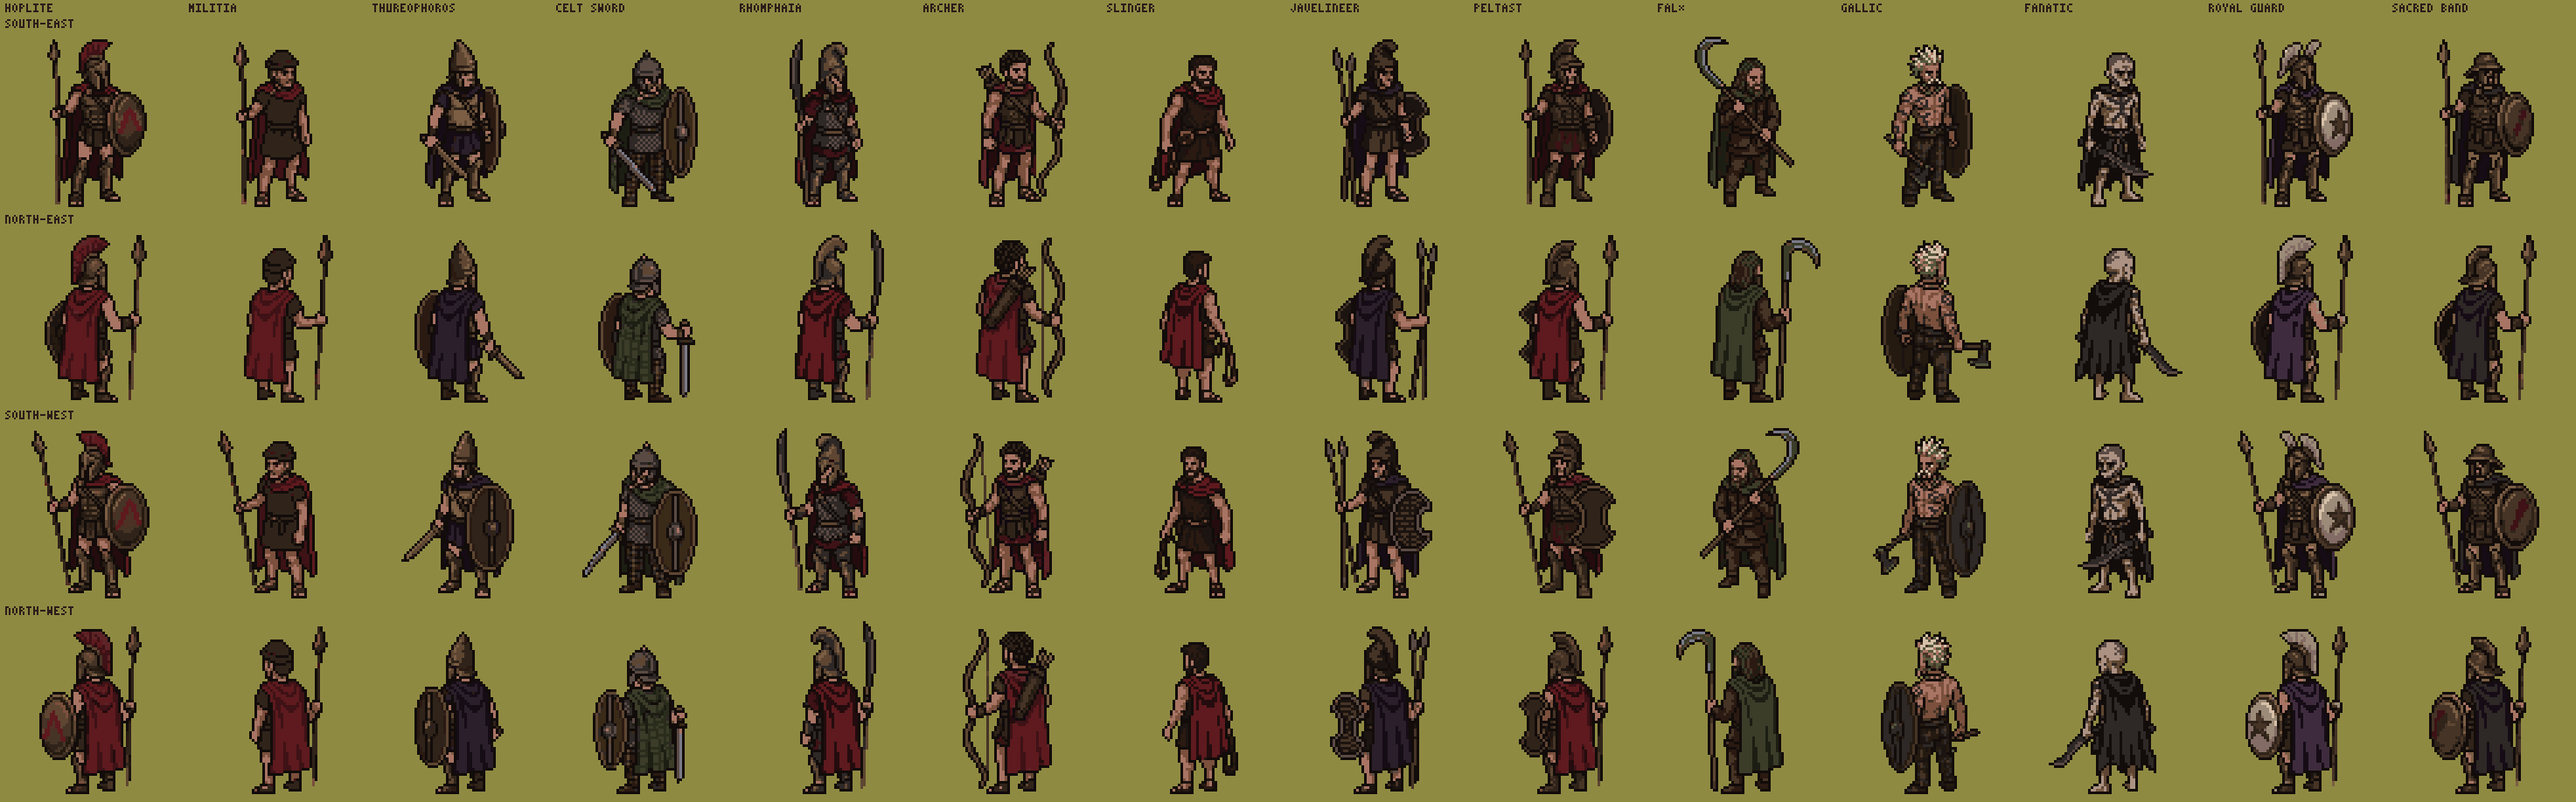
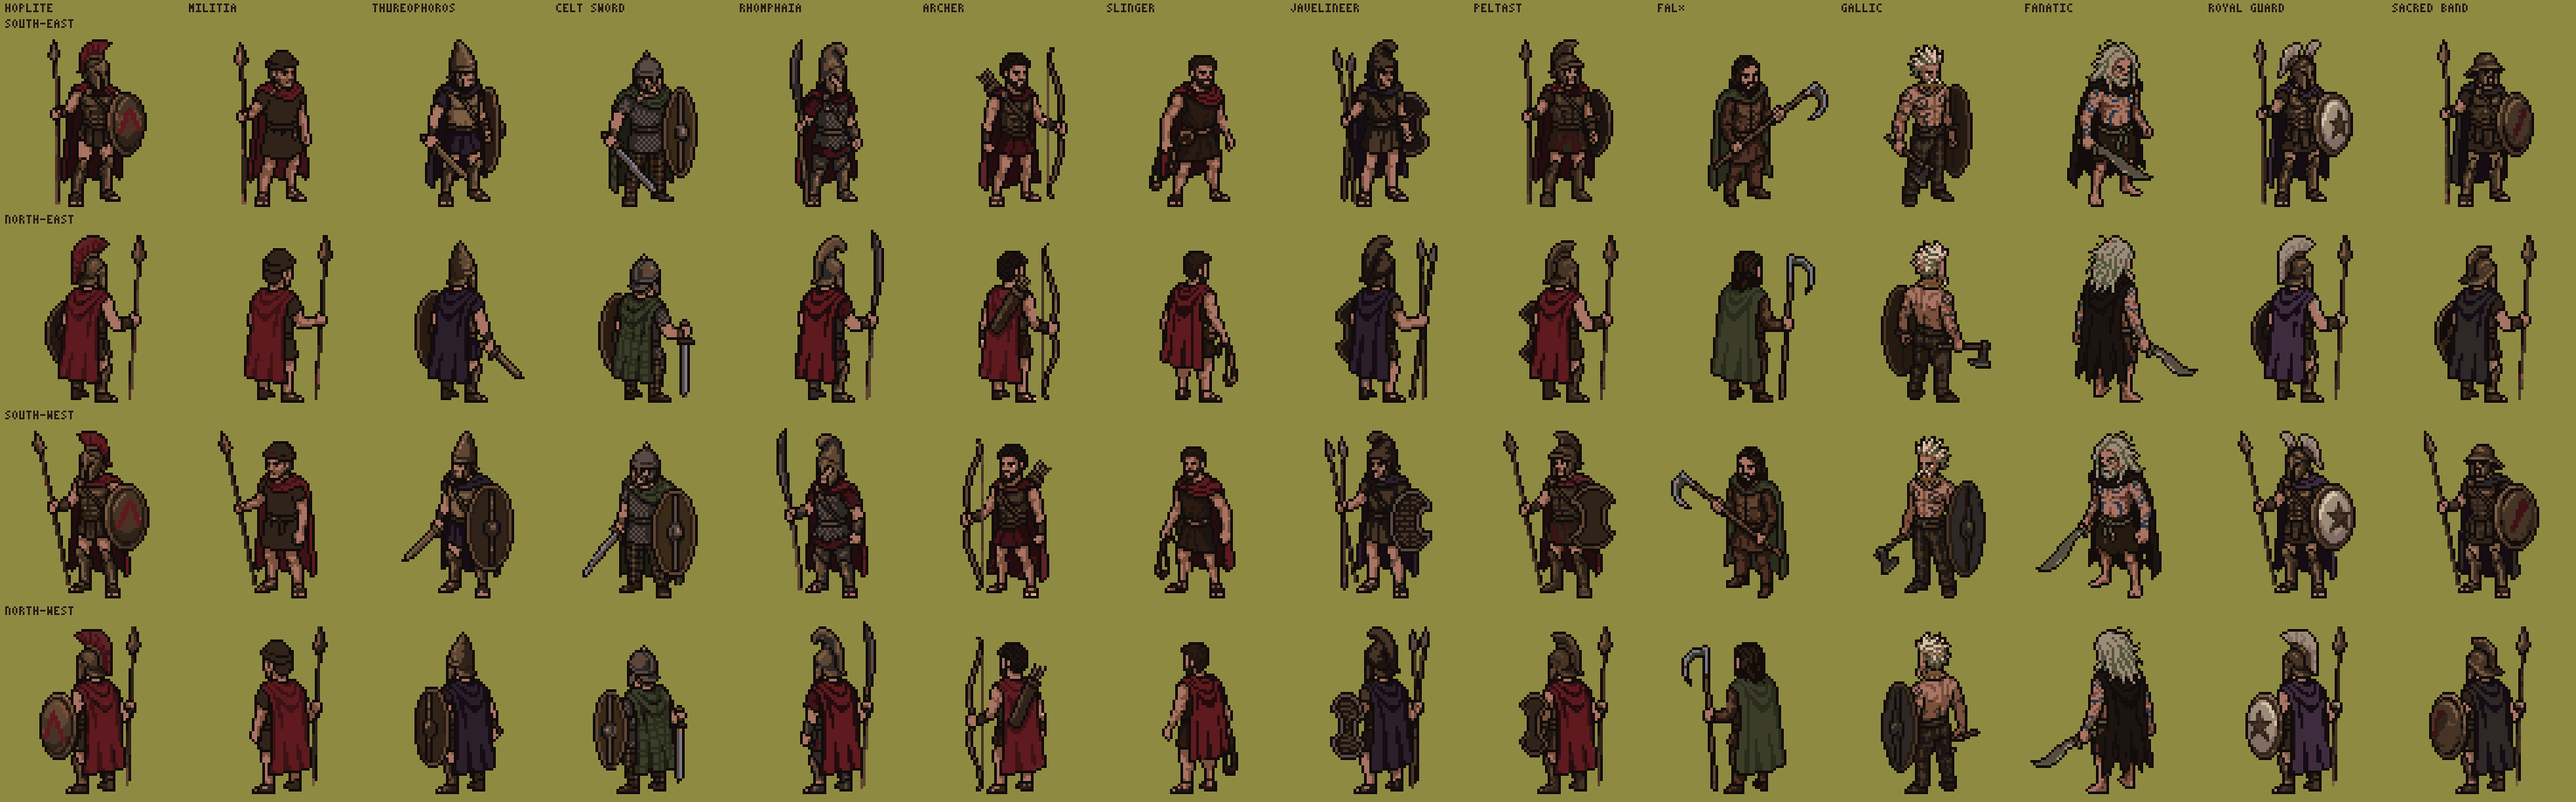
fix(art): I4a review fixes: one bow for the archer, a living Celtic fanatic, exclusive cloak and trim groups for falx, fanatic and gallic

diff --git a/docs/v5/ASSET_LOG.md b/docs/v5/ASSET_LOG.md
@@ -173,6 +173,44 @@ All 13 classes passed the hard-reject list in every promoted set: one weapon and
 - §5.2 headgear words that the model reads as a hoplite's ("Thracian helmet", "Phrygian-style … peak") need "open-faced …, the face visible, no crest, no face mask".
 - Pro output often has only 6–10 colours. The remap then has little to lose, but groups collapse fast.
 
+#### I4a review fixes (main's review of the roster, same day)
+
+Three fixes: the archer carried two bows in SE, NE and NW (the recurved bow is drawn as two parallel limbs); the fanatic read as undead (ash-grey skin, a gaunt face); and the cloak, crest and trim groups of falx, fanatic and gallic were not exclusive. **Gens:** 4 pro characters (40) and 4 imports (1), so 41 this round; **262.25 in all for I4a** (cap 650). Account: 4,313.50 left after.
+
+**Prompts, word for word:**
+
+- **archer A3**
+  ```
+  lean grim Cretan archer with realistic adult proportions: seven heads tall, a small head, long legs, natural arms, broad shoulders, lean wiry build; bare head with short dark curly hair and a short dark beard, no helmet; short deep dark crimson cloak hanging behind him; dark leather jerkin over a dark oxblood-brown tunic, one dark leather quiver strap across his chest and one quiver of arrows on his back, no white cloth; bare legs, dark leather sandals; no shield; only one bow: a plain wooden bow with a single thin curved limb and one straight string, held vertically in his left hand out at his left side, away from his body and clearly visible in every direction, no second bow, his right hand empty ready to draw; heavy shadows, desaturated dark warm colours like the style reference
+  ```
+- **fanatic A4**
+  ```
+  grim wild-eyed Celtic religious fanatic, a living man, with realistic adult proportions: seven heads tall, a small head, long legs, natural arms, broad shoulders, lean muscular build; no helmet, long wild tangled hair stiffened with lime into a dull pale ash-blond mane, a short rough beard; ragged very dark oxblood-black wool cloak hanging behind him, torn at the hem; bare chest and arms of living warm tan skin painted with bold dark blue woad patterns, no armour; a dark umber wool kilt with a rope belt; bare legs, bare feet; no shield, his left hand an empty fist; one heavy curved iron kopis blade held in his right hand down at his right side, away from his body and clearly visible in every direction; heavy shadows, desaturated dark warm colours like the style reference
+  ```
+- **falx A4**: falx A3 with "long black hair to the shoulders and a full black beard".
+- **gallic A3**
+  ```
+  grim tall bare-chested Gallic warband warrior with realistic adult proportions: seven heads tall, a small head, long legs, natural arms, broad shoulders, lean muscular build; no helmet, thick limed hair stiffened into dull pale-grey spikes standing up from his head, a long drooping moustache; bare muscular chest and arms of living tan skin painted with dark blue woad swirls; one thick twisted polished bronze torc around his neck and one wide dark belt with a polished bronze buckle, the only bright bronze he wears; dark muted green plaid wool trousers, dark leather shoes; one tall oval Celtic hide shield on his left arm, shoulder to knee, dark umber hide with a dark iron boss; one heavy iron war axe on a wooden haft held in his right hand down at his right side, away from his body and clearly visible in every direction; heavy shadows, desaturated dark warm colours like the style reference
+  ```
+
+**Retints** (`scripts/art/pixellab/rollout/retint.mjs`). Each one moves a part into a ramp of its own: the pixels of the named ramps inside a box per view go to the target ramp's step nearest in lightness, a small hue or value shift. Each result was checked with `groups.mjs`.
+
+- **fanatic A4:** the cloak and kilt were one raw colour (`#231616`). The kilt (S, SE, SW rows 36–49 within 8 px of the centre; E columns 33–40 and W columns 28–37, rows 37–49) goes from umber to darkBronze. The cloak is now the only umber.
+- **falx A4:** a few lit hair pixels (rows 4–16) go from plaidGreen to umber. The moss-green cloak is then the only plaidGreen.
+- **gallic N1:** the torc was drawn in outline black, so its inner pixels on the neck row (row 20 in S, SE, E; row 21 in the others; `--inner` keeps the edge outline) go to the bronze ramp. Nothing else on him is bronze, so it is the exclusive trim group.
+
+| # | Class | Attempt | Character id | Outcome |
+| --- | --- | --- | --- | --- |
+| 29 | archer | A3 | `5dabb376` | **Promoted after normalising:** one plain bow and a back quiver in 8/8 (W, not a game facing, holds the bow level); 61 to 58 px (−3 rows, −1 column) → **N1 `199cd6bb`** |
+| 30 | fanatic | A4 | `7de14182` | **Promoted after the retint:** a living man (warm tan skin, blue woad, a wild limed mane, ragged dark cloak, kopis in 8/8); body at H4's height (the mane is not counted) → **N2 `fe0b0a2d`** |
+| 31 | falx | A4 | `60c71589` | **Promoted after the retint and normalising:** black hair and beard, falx in 8/8; 62 to 58 px (−4 rows, −2 columns) → **N1 `63527404`** |
+| 32 | gallic | A3 | `28d7356a` | **Rejected:** only 6 colours, no bronze on the torc, an invented ground shadow in W, feet on row 64 |
+| 33 | gallic | N1 + torc | `2ef012ad` | **Promoted:** N1 with the bronze torc retint → **N2 `2ef012ad`** |
+
+`normalise.mjs` now drops columns only within 11 px of the knees' centre, so a weapon held out at the side is never thinned (falx A4's first pass had cut two columns from the blade).
+
+**Groups after the fixes:** archer, cloak crimson (exclusive); falx, cloak plaidGreen (exclusive); fanatic, cloak umber (exclusive; kilt darkBronze); gallic, trim bronze (exclusive; no cloak or crest by the data). **Still open:** falx's jerkin remaps to the skin ramp, so a per-man skin recolour (V5-095) would tint his jerkin. Other leather-clad classes may do the same; that is a check for sheetbuild's skin group.
+
 ### I1b Dark-epic hoplite: the restyle, 12–16-frame walk and thrust, frame-by-frame review, the elite probe (2026-10-18)
 
 **Brief** (user review of I1, V5-087): darker, *300* / Lord of the Rings mood on the I1 pick B3 (high top-down, 48); smooth 12–16-frame clips; a spearhead pointing away from the facing or the attack is never allowed; then, mid-round, a hard rule: exactly one spearhead at the leading end, a plain blunt wooden butt (no sauroter), and every frame with a pointed or metallic butt rejected. Every prompt below carries "single leaf-shaped spearhead, plain blunt butt end, no butt spike".

diff --git a/docs/playbook/PROMPTS_ART.md b/docs/playbook/PROMPTS_ART.md
@@ -867,3 +867,38 @@ The model fits the figure's top to the canvas top. A crest, plume or upright spe
 family nothing else on the man uses (crimson for Greeks, purple-black for Carthaginians, green plaid for Celts). A brown
 cloak on a man in leather leaves no recolour group. For a §5.2 helmet the model might draw as a Corinthian, write
 "open-faced …, the face visible, no crest, no face mask".
+
+**Review fixes** (main's review: the archer's doubled bow, the fanatic reading as undead, exclusive groups for falx, fanatic
+and gallic). Retints by `rollout/retint.mjs`; details in ASSET_LOG › I4a review fixes.
+
+**archer A3**
+
+```
+lean grim Cretan archer with realistic adult proportions: seven heads tall, a small head, long legs, natural arms, broad shoulders, lean wiry build; bare head with short dark curly hair and a short dark beard, no helmet; short deep dark crimson cloak hanging behind him; dark leather jerkin over a dark oxblood-brown tunic, one dark leather quiver strap across his chest and one quiver of arrows on his back, no white cloth; bare legs, dark leather sandals; no shield; only one bow: a plain wooden bow with a single thin curved limb and one straight string, held vertically in his left hand out at his left side, away from his body and clearly visible in every direction, no second bow, his right hand empty ready to draw; heavy shadows, desaturated dark warm colours like the style reference
+```
+
+**fanatic A4**
+
+```
+grim wild-eyed Celtic religious fanatic, a living man, with realistic adult proportions: seven heads tall, a small head, long legs, natural arms, broad shoulders, lean muscular build; no helmet, long wild tangled hair stiffened with lime into a dull pale ash-blond mane, a short rough beard; ragged very dark oxblood-black wool cloak hanging behind him, torn at the hem; bare chest and arms of living warm tan skin painted with bold dark blue woad patterns, no armour; a dark umber wool kilt with a rope belt; bare legs, bare feet; no shield, his left hand an empty fist; one heavy curved iron kopis blade held in his right hand down at his right side, away from his body and clearly visible in every direction; heavy shadows, desaturated dark warm colours like the style reference
+```
+
+**gallic A3**
+
+```
+grim tall bare-chested Gallic warband warrior with realistic adult proportions: seven heads tall, a small head, long legs, natural arms, broad shoulders, lean muscular build; no helmet, thick limed hair stiffened into dull pale-grey spikes standing up from his head, a long drooping moustache; bare muscular chest and arms of living tan skin painted with dark blue woad swirls; one thick twisted polished bronze torc around his neck and one wide dark belt with a polished bronze buckle, the only bright bronze he wears; dark muted green plaid wool trousers, dark leather shoes; one tall oval Celtic hide shield on his left arm, shoulder to knee, dark umber hide with a dark iron boss; one heavy iron war axe on a wooden haft held in his right hand down at his right side, away from his body and clearly visible in every direction; heavy shadows, desaturated dark warm colours like the style reference
+```
+
+**falx A4**: falx A3 with "long black hair to the shoulders and a full black beard".
+
+| Class | Attempt | Outcome |
+| --- | --- | --- |
+| archer | A3 | **Promoted** (normalised −3 rows): one plain bow, a back quiver in 8/8 |
+| fanatic | A4 | **Promoted** (kilt retinted to darkBronze): a living man, the cloak the only umber |
+| falx | A4 | **Promoted** (hair specks retinted, normalised −4 rows): the moss cloak the only plaidGreen |
+| gallic | A3 | **Rejected:** 6 colours, no bronze, an invented shadow; N1 got a bronze torc retint instead |
+
+**Lessons:** "recurved composite bow" is drawn as two parallel limbs that read as two bows; ask for "only one bow: a plain
+wooden bow with a single thin curved limb and one straight string … no second bow". "a living man … warm tan skin" keeps a
+grim fanatic alive; grey ash on the body turns him into a ghoul. PixelLab often paints two parts in one exact colour (the
+fanatic's cloak and kilt), so a re-roll rarely separates them; a box retint into a neighbouring ramp does, at no cost.
